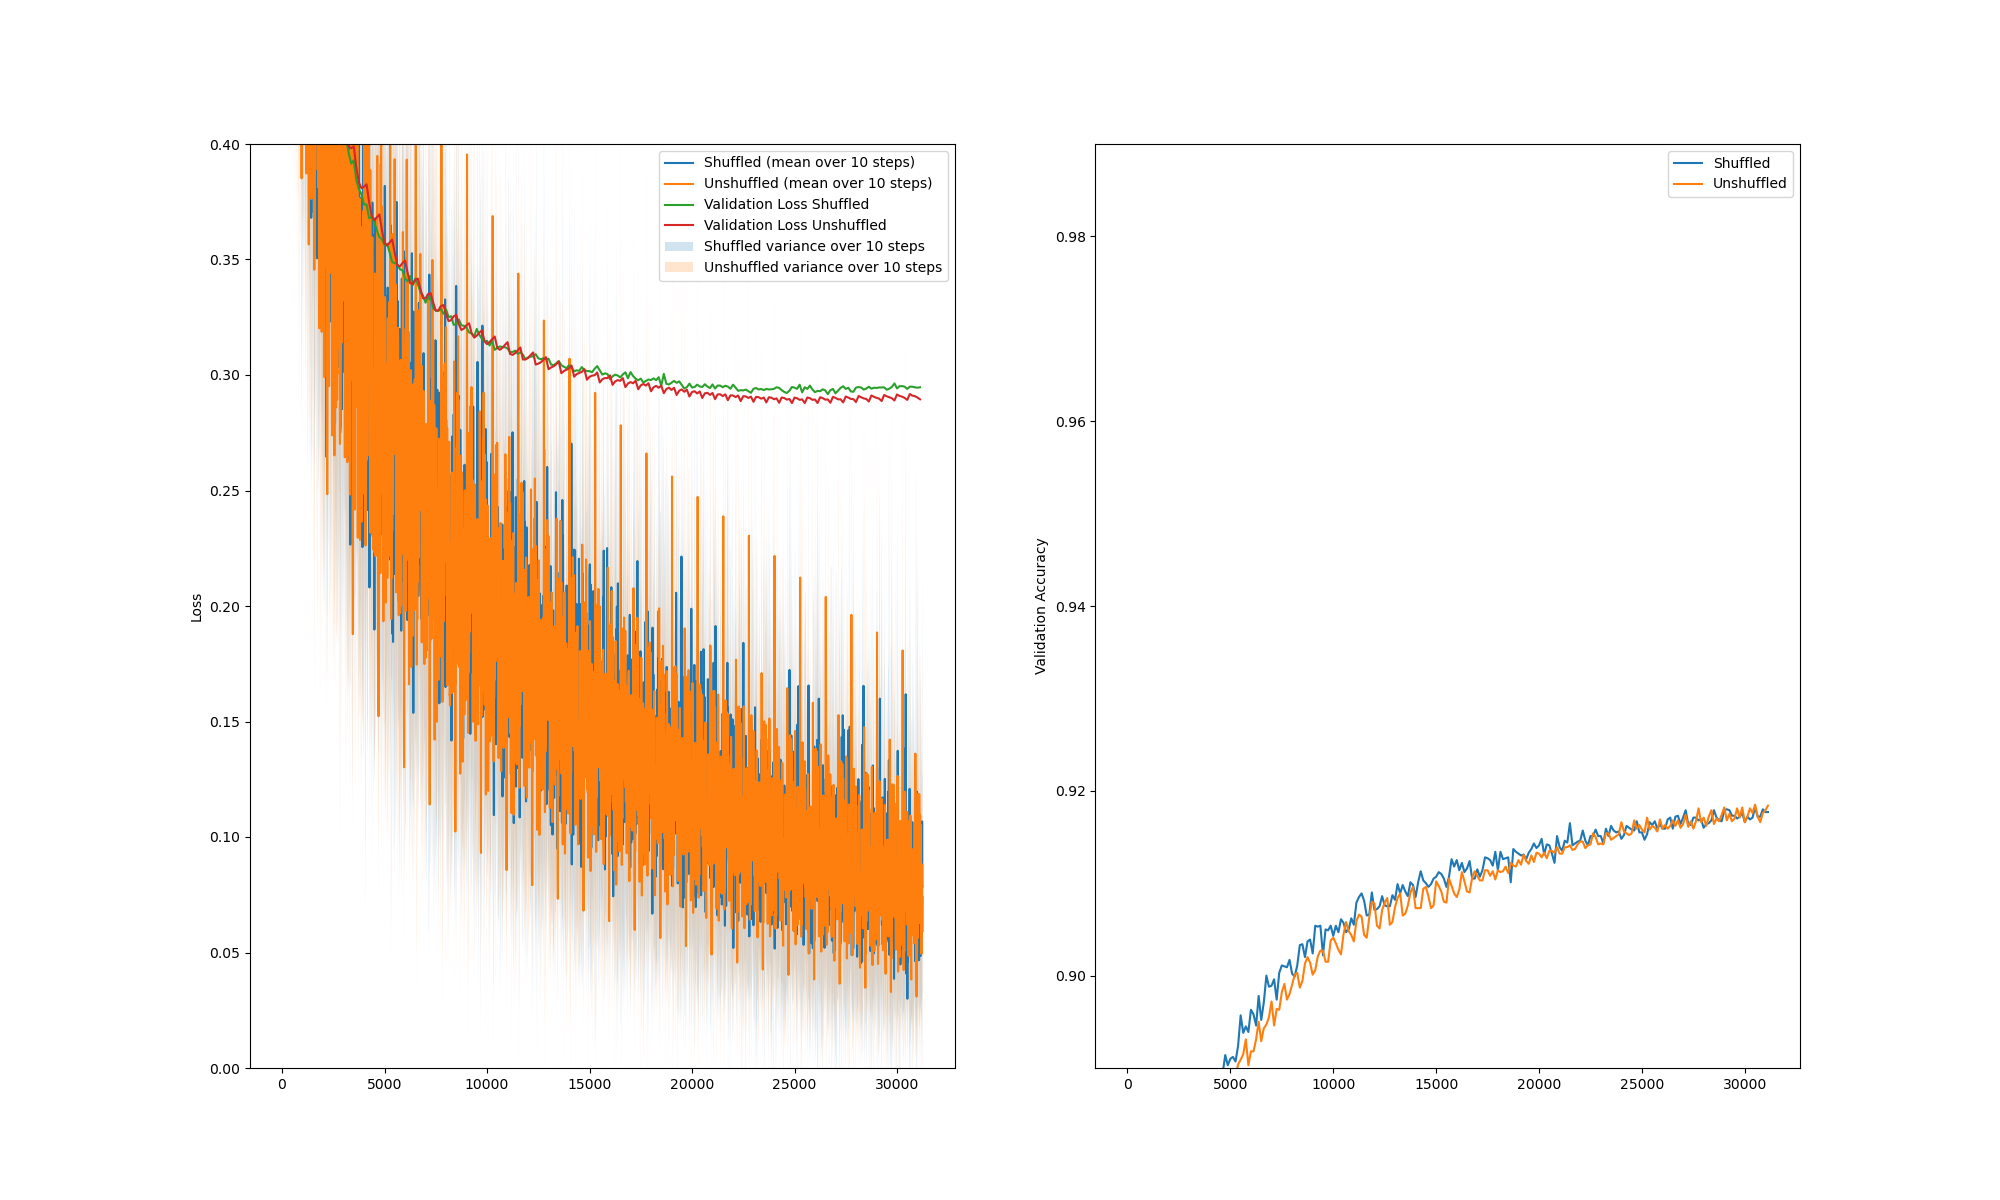
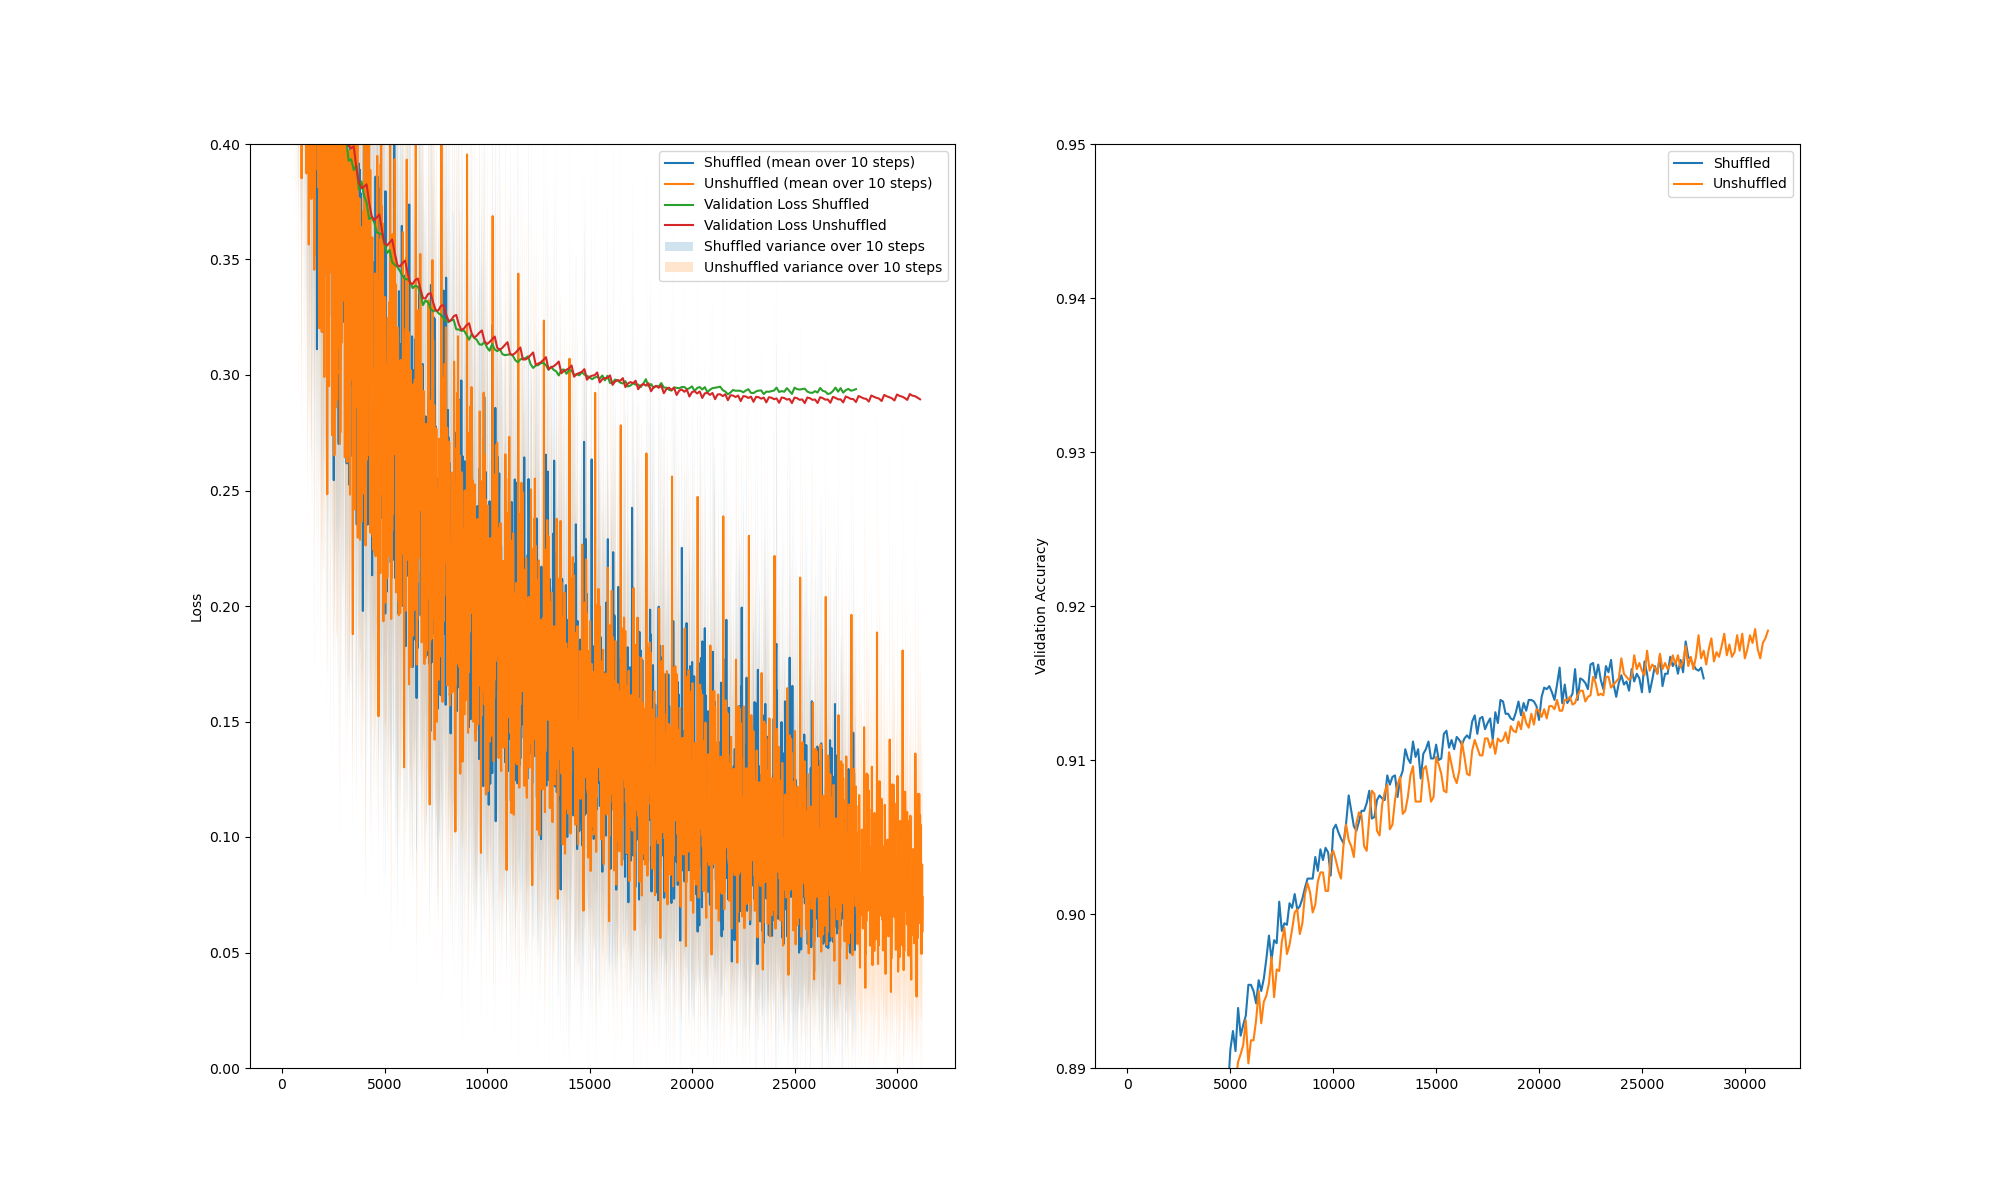
updated plots

diff --git a/assignment2/task3.py b/assignment2/task3.py
@@ -29,7 +29,7 @@ if __name__ == "__main__":
     ##########################
     # Shuffled vs unshuffled #
     ##########################
-    '''
+    
     shuffle_data = True
     model = SoftmaxModel(
         neurons_per_layer,
@@ -68,7 +68,7 @@ if __name__ == "__main__":
     plt.ylim([0, .4]) 
     plt.legend()
     plt.subplot(1, 2, 2)
-    plt.ylim([0.89, .99])
+    plt.ylim([0.89, .95])
     utils.plot_loss(
         val_history_shuffled["accuracy"], "Shuffled")
     utils.plot_loss(
@@ -77,7 +77,7 @@ if __name__ == "__main__":
     plt.legend()
     plt.savefig("task3.png")
     plt.show()
-    '''
+    
     #################
     #Task 3 below   #
     #################
